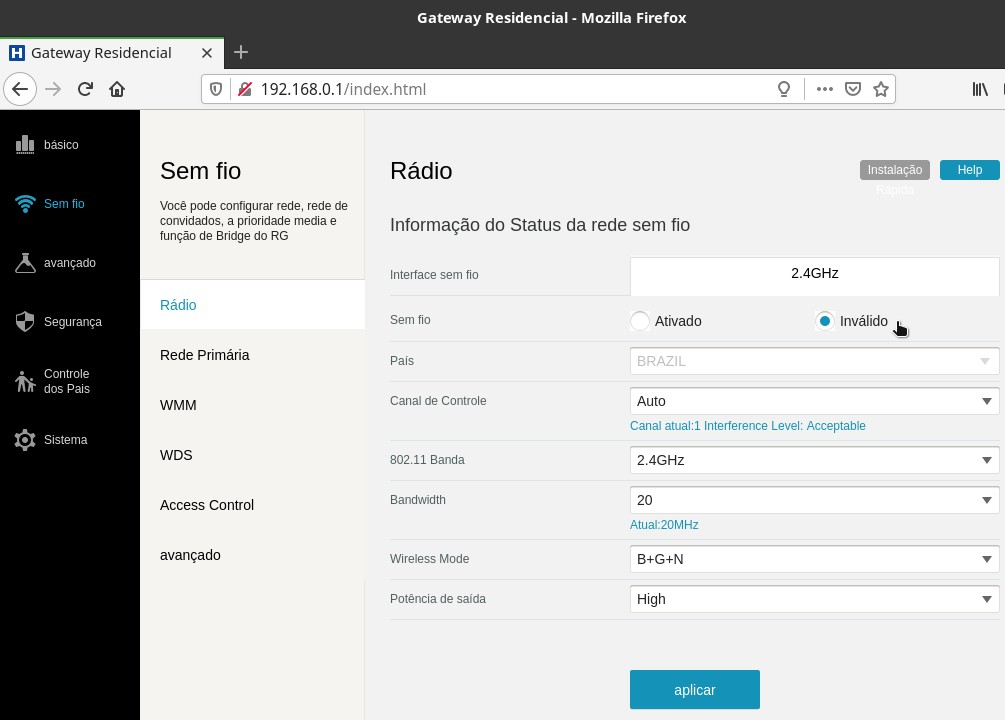
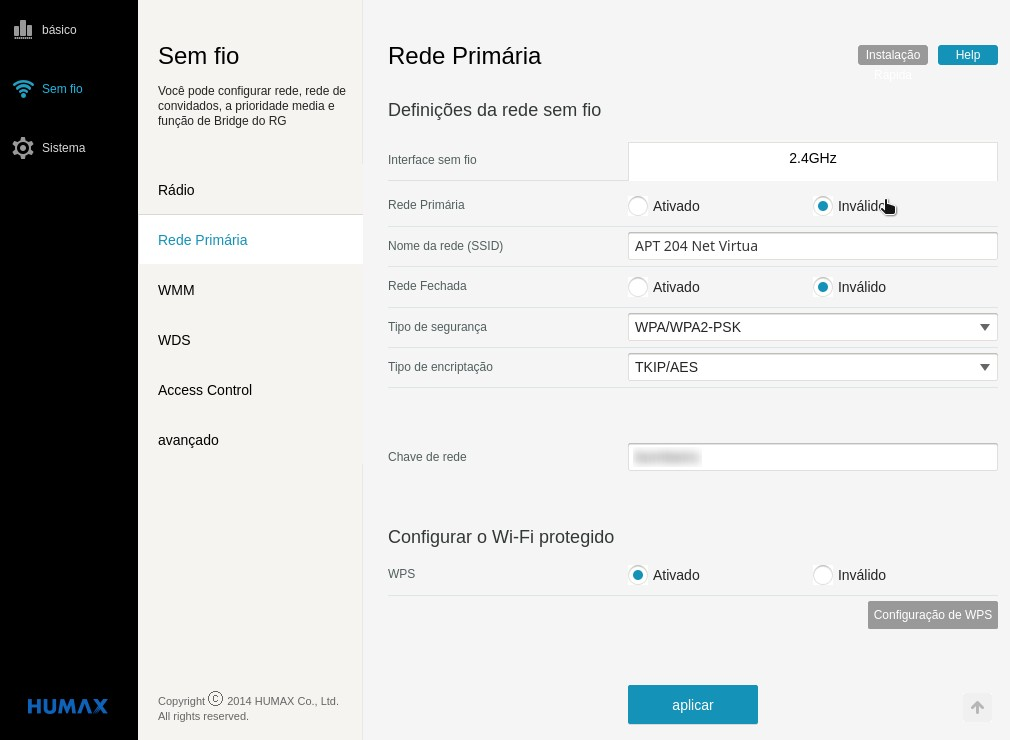
Publishing website (see commit vinicius/vinyanalista-website@a441901a5af7e16235e5069c75c382e80e2c8cdd)

diff --git a/blog/2020/08/14/configurando-o-modem-humax-hg100r-l4-em-modo-bridge/index.html b/blog/2020/08/14/configurando-o-modem-humax-hg100r-l4-em-modo-bridge/index.html
@@ -325,7 +325,7 @@
 
 <h3 id="desativando-a-rede-wi-fi-do-modem">Desativando a rede Wi-Fi do modem</h3>
 
-<p>Na interface <em>web</em> do modem, selecione <strong>Sem fio</strong> no menu à esquerda. À direita, marque a opção <strong>Inválido</strong> e depois clique em <strong>aplicar</strong>:</p>
+<p>Na interface <em>web</em> do modem, selecione <strong>Sem fio</strong> no menu à esquerda, depois <strong>Rede Primária</strong>. À direita, marque a opção <strong>Inválido</strong> e depois clique em <strong>aplicar</strong>:</p>
 
 <div class="image no-ads-here text-center mb-3" itemscope="" itemtype="http://schema.org/ImageObject">
 <a href="/files/2020/08/modem-bridge-04.jpg" title="">
